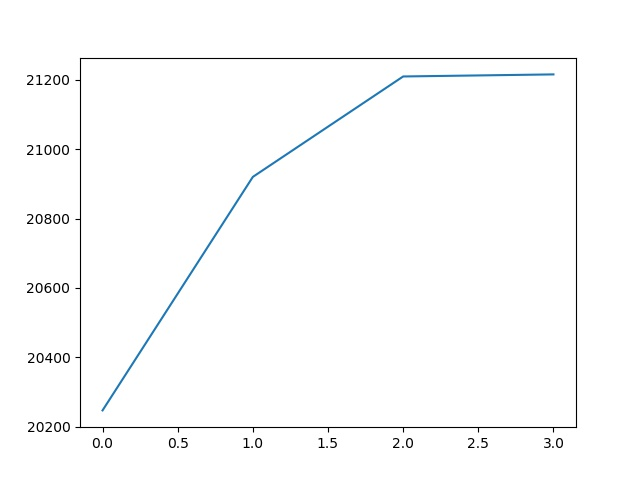
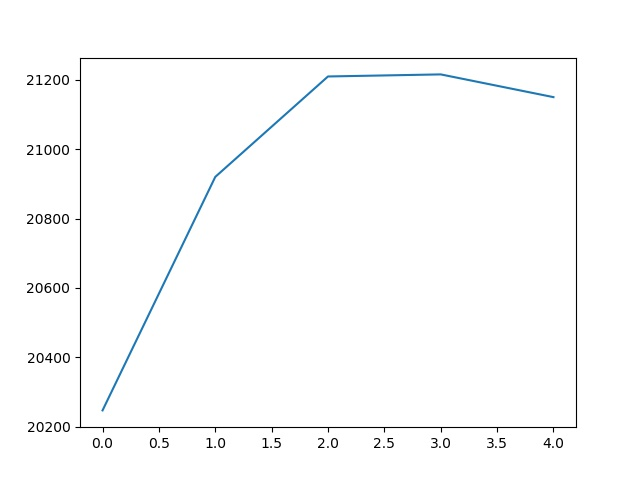
'auto'

diff --git a/README.md b/README.md
@@ -1,5 +1,5 @@
 Frizider live: 5
-21215.916666666664 
+21150.336363636365 
 1
 Temperatura:
 
